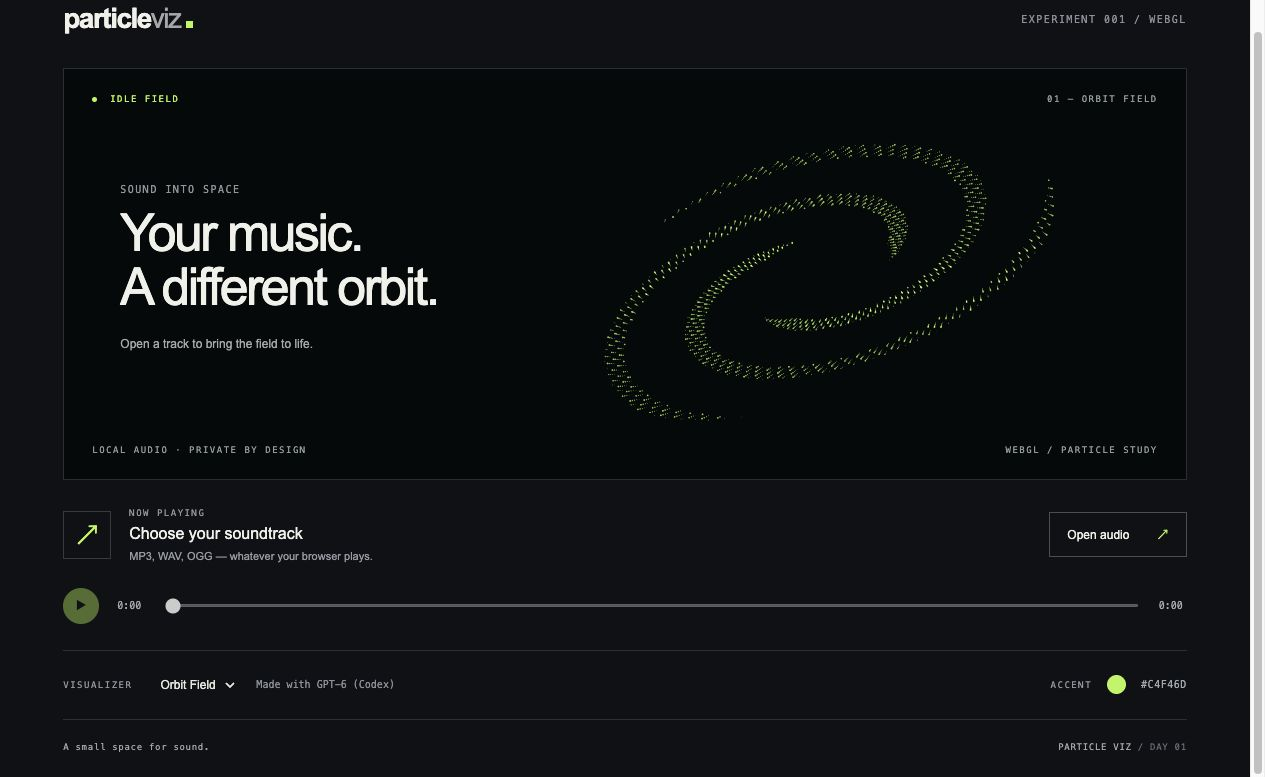
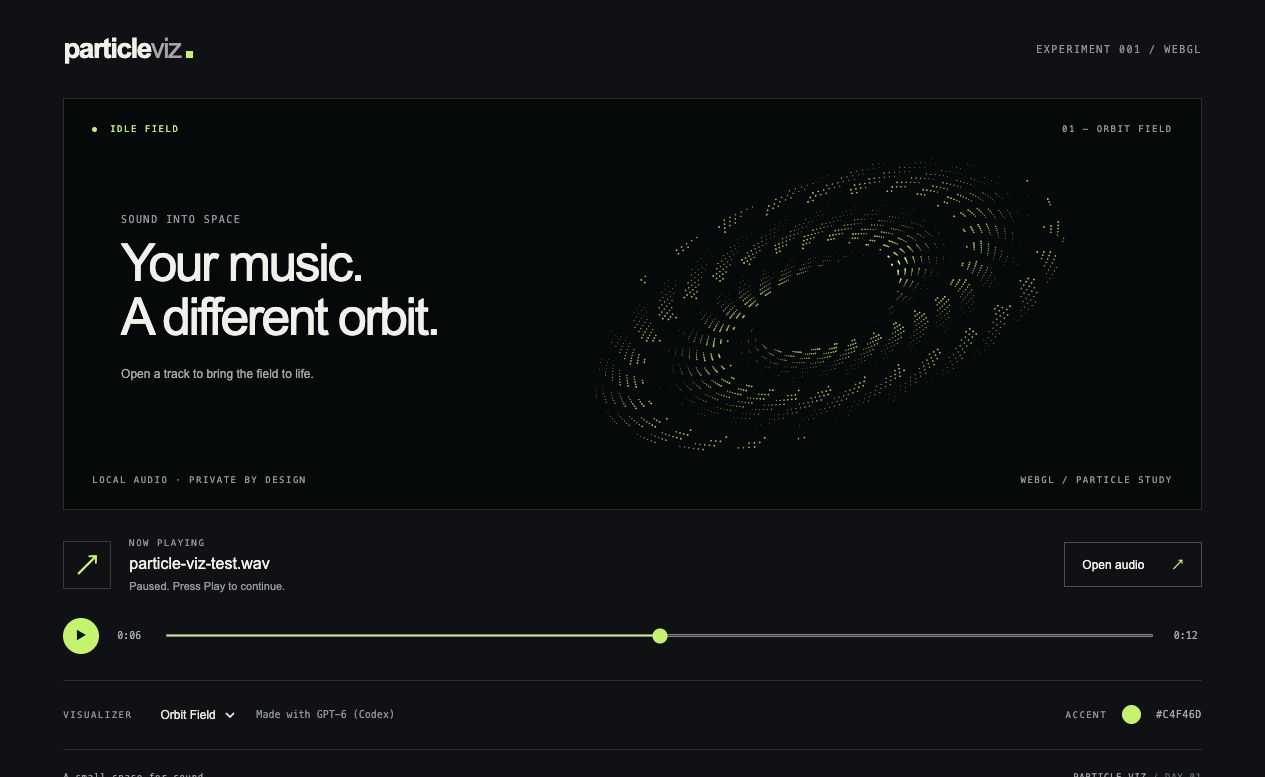
Address Qodo audio status and WebGL recovery findings; finish Day 1 evidence

diff --git a/src/main.js b/src/main.js
@@ -35,7 +35,7 @@ $('file').addEventListener('change', event => {
   objectURL = URL.createObjectURL(file); audio.src = objectURL;
   $('track-name').textContent = file.name;
   $('play').disabled = true;
-  status('Loading local audio…'); updateProgress();
+  status('Loading local audio…'); updateProgress(); updateTransport();
   event.target.value = '';
 });
 audio.addEventListener('loadedmetadata', () => {
@@ -46,7 +46,11 @@ audio.addEventListener('error', () => {
   status('This file could not be played. Open another audio file.');
 });
 $('play').addEventListener('click', async () => {
-  if (!audio.paused) { audio.pause(); return; }
+  if (!audio.paused) {
+    audio.pause(); updateTransport();
+    status('Paused. Press Play to continue.');
+    return;
+  }
   const generation = trackGeneration;
   $('play').disabled = true;
   try {
@@ -72,9 +76,7 @@ $('play').addEventListener('click', async () => {
   }
 });
 for (const name of ['play', 'pause', 'ended']) audio.addEventListener(name, updateTransport);
-audio.addEventListener('pause', () => {
-  if (audio.getAttribute('src') && !audio.error) status(audio.ended ? 'Track finished. Press Play to listen again.' : 'Paused. Press Play to continue.');
-});
+// Status follows explicit user intent; queued media events can belong to an old source.
 audio.addEventListener('ended', () => status('Track finished. Press Play to listen again.'));
 audio.addEventListener('timeupdate', updateProgress);
 audio.addEventListener('durationchange', updateProgress);
@@ -95,7 +97,17 @@ function rendererError(message) {
 try { renderer = selected.create(canvas); }
 catch (error) { rendererError(error.message); }
 canvas.addEventListener('webglcontextlost', event => {
-  event.preventDefault(); rendererError('Graphics context lost. Reload to restore the visualizer.');
+  event.preventDefault(); rendererError('Graphics context lost. Waiting for the browser to restore it…');
+});
+canvas.addEventListener('webglcontextrestored', () => {
+  try {
+    renderer?.dispose();
+    renderer = selected.create(canvas);
+    failed = false; previousTime = undefined;
+    $('renderer').textContent = 'WEBGL / PARTICLE STUDY';
+    $('hint').textContent = 'Open a track to bring the field to life.';
+    frame = requestAnimationFrame(render);
+  } catch (error) { rendererError(error.message); }
 });
 function render(now) {
   if (failed) return;

diff --git a/docs/submission/day-01.md b/docs/submission/day-01.md
@@ -3,32 +3,46 @@
 Challenge: https://hackathon.qodo.ai/challenges/?day=01
 Discussion: https://github.com/orgs/qodo-hackathon/discussions/2
 Repository: https://github.com/vracton/particle-viz
+PR: https://github.com/vracton/particle-viz/pull/1
+Qodo review: https://github.com/vracton/particle-viz/pull/1#issuecomment-6771503839
 
-## Introduction (ready to post)
+## Submission materials
 
-I'm building **Particle Viz**, a WebGL music visualizer host for listeners and people experimenting with agent-generated graphics. A shared player will manage local music, playback, accent colors, and eventually scrobbling, while small JavaScript visualizers carry their own name and model credit. My goal is to prompt an agent for a new visualizer and slot the reviewed module into the same player.
+Paste `discussion-post.md` into the Day 1 Discussion (or use its delivery section to update an existing introduction). Attach `day-01-desktop.jpg`; `day-01-mobile.jpg` is optional. The Discussion has not been posted on your behalf.
 
-Today's small capability: open one local audio file and play it through one audio-reactive WebGL particle visualizer, with play/pause, seeking, a shared accent color, and visible model attribution.
+## Delivered capability
 
-## Delivery update (finish after Qodo review)
+Open a local audio file and play it through Orbit Field, an audio-reactive WebGL particle visualizer. Play/pause, seek, shared accent color, and module/model metadata work. Audio stays on-device. One trusted bundled module keeps the first increment small.
 
-- PR: pending
-- Screenshot: `day-01-desktop.jpg` (attach this image to the Discussion)
-- Capability: local audio drives Orbit Field; shared playback, seek, and accent controls work.
-- Qodo review: pending — do not claim this challenge complete until the actual review and reflection are recorded below.
-- Review lesson: pending actual Qodo feedback.
-
-## Checks performed
+## Verification
 
 - `npm test`: 3 passing tests for missing/invalid duration, bounded seeking, time/color conversion.
-- `npm run build`: production build passed.
+- `npm run build`: production build passed after the fixes.
+- `npm audit`: zero reported vulnerabilities at verification time.
 - Browser: loaded a generated 12-second WAV; Play entered AUDIO REACTIVE; seek to 50% moved to 0:06; Pause preserved the position.
-- Independent agent review identified an asynchronous Play/file-replacement race. Added a track generation guard so stale playback handlers cannot update a replacement track's UI.
+- Browser: invalid file produced a readable error; replacing it with a WAV restored playback.
+- Browser: accent change worked and the layout was inspected at 390×844.
+- Independent agent review identified an asynchronous Play/file-replacement race. Track generation guards prevent stale async handlers from updating replacement-track UI.
+- Qodo fix regression: replaced a playing track and recorded status transitions: `Loading local audio…` → `Ready. Your audio stays on this device.` The new track was paused, Play was labeled correctly, and the mode was IDLE FIELD.
+- Qodo fix regression: forced loss and restoration with `WEBGL_lose_context`; the unavailable message appeared, then the normal status and rendered particles returned without reload.
 
-## Scope
+## Actual Qodo review and decisions
 
-This delivery has one trusted bundled module, not arbitrary JavaScript execution or agent generation. Scrobbling services, multiple visualizers, persistent settings, richer module contracts, and generation workflows are future increments.
+Qodo reviewed commit `90623f25c223338412a8565ada9079851cc5e74e` and reported two medium findings. Both were evaluated against the implementation and addressed in the follow-up commit on the same PR. These local verification results do not imply Qodo has re-reviewed that follow-up.
 
-## Actual Qodo review and reflection
+1. **Queued pause status on track replacement — accepted.** The old pause handler read the current src instead of identifying the event's original track. Pause status now follows the explicit user Pause action; replacing a track immediately synchronizes the transport. This avoids depending on queued media events, which can also be canceled by `audio.load()`.
+2. **WebGL recovery required reload — accepted as a reliability improvement.** Day 1 originally offered a reload fallback. Since the handler requested restoration, rebuilding the renderer is the more consistent behavior. A restoration handler now recreates GPU resources, clears the failure state, resets frame timing, and restarts rendering; initialization failure keeps a readable fallback.
 
-Pending. Record the review URL, actionable feedback (or explicitly no findings), what was checked against the code, and the decision to accept or question each material recommendation. A review is evidence, not a guarantee of correctness.
+Lesson: guarding awaited Play operations is only one part of lifecycle correctness. Queued browser events can refer to earlier state, and a recovered WebGL context needs fresh GPU resources. The review improved two edge cases while preserving the small first delivery.
+
+## Saved for future increments
+
+Multiple visualizers, a richer/versioned module API, agent prompt-to-module generation and validation, persistence, playlists, scrobbling integrations, and browser-test automation. No general plugin framework or arbitrary JavaScript execution today.
+
+## Short demo script
+
+1. Run `npm ci` and `npm run dev`; open the printed local URL.
+2. Open a local MP3/WAV supported by your browser.
+3. Press Play and show particles responding to low-frequency energy.
+4. Change ACCENT, seek to the middle, then pause.
+5. Show Orbit Field's visible model credit and the Qodo review/fix reflection on the PR.

diff --git a/docs/submission/discussion-post.md b/docs/submission/discussion-post.md
@@ -1,0 +1,15 @@
+I'm building **Particle Viz**, a WebGL music visualizer host for listeners and people experimenting with agent-generated graphics. The shared player will manage local music, playback, accent colors, and eventually scrobbling. Small JavaScript visualizers will carry their own name and model credit. The longer-term goal is to prompt an agent for a new visualizer and slot the reviewed module into the same player.
+
+For Day 1, I kept it small: **open a local audio file and play it through one audio-reactive WebGL visualizer, Orbit Field**, with play/pause, seeking, a shared accent color, and visible model attribution. Audio stays on-device.
+
+- Repository: https://github.com/vracton/particle-viz
+- First delivery PR: https://github.com/vracton/particle-viz/pull/1
+- Qodo review: https://github.com/vracton/particle-viz/pull/1#issuecomment-6771503839
+
+![Particle Viz — first delivery](https://raw.githubusercontent.com/vracton/particle-viz/codex/day-01-first-visualizer/docs/submission/day-01-desktop.jpg)
+
+**What I learned from reviewing the agent's work:** Qodo found that an old queued pause event could overwrite a new track's status, and that a restored WebGL context would remain blank. I checked both against the code and addressed them: pause status now follows the user's Pause action, track replacement resets the transport immediately, and graphics restoration rebuilds the renderer and restarts animation. Browser checks confirmed replacement goes from Loading to Ready with a paused transport, and forced WebGL loss/restoration brings the particles back without reloading. The lesson was that async Play guards alone don't cover queued browser events or GPU resource lifecycles.
+
+Validation: three unit tests and the production build pass; browser checks cover upload/play/seek/pause, invalid-file recovery, accent changes, mobile layout, and the two review fixes. Qodo's linked review is on the original increment; the follow-up fixes were checked locally.
+
+I'm leaving multiple visualizers, prompt-to-module generation, persistence, and scrobbling integrations for later challenges.
